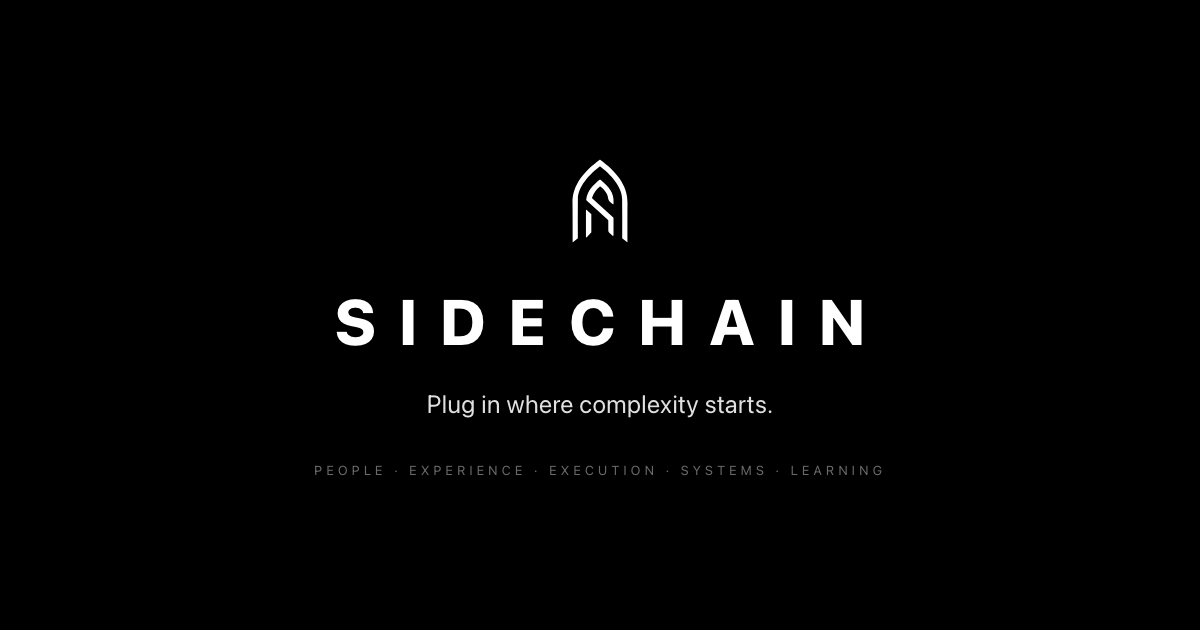
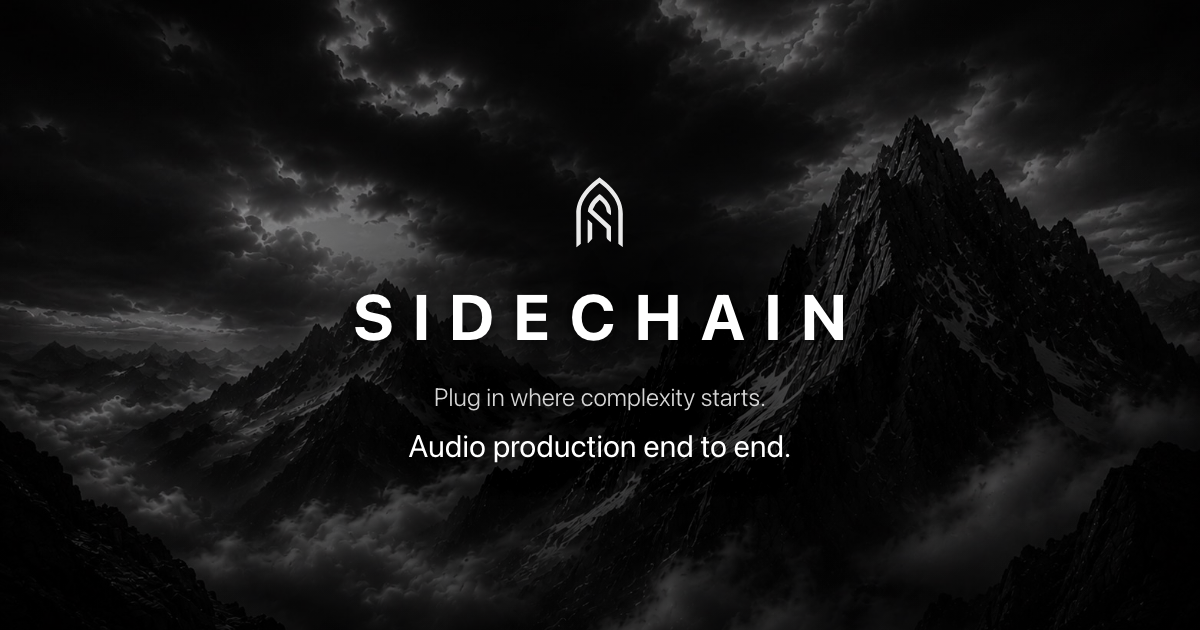
Lead the opening with the brand, and bring back the tagline
The wordmark now carries the opening and the message sits under it, with
'Plug in where complexity starts.' returned to the position it held on the
live site. The message keeps its full size at the close, where it stands on
its own.

Knowledge uses Sidechain's own line rather than the one I wrote, and the
social card is rebuilt from the new opening instead of the old artwork.

Claude-Session: https://claude.ai/code/session_01MtiF7TgJdrS4r8Sq25ne44

diff --git a/style.css b/style.css
@@ -240,22 +240,44 @@ a { color: inherit; text-decoration: none; }
 
 .mark {
   display: block;
-  margin: 0 auto 22px;
-  width: 76px;
+  margin: 0 auto clamp(20px, 3.4vh, 32px);
+  width: clamp(72px, 8vw, 104px);
   height: auto;
   filter: invert(1);
   opacity: .92;
 }
 
-/* The wordmark identifies. The statement carries the message, so the
-   wordmark is deliberately the smaller of the two. */
+/* The opening leads with identity: mark, then wordmark, then the tagline,
+   then what the company actually does. The message is not the largest thing
+   here — it gets its full size at the close, where it stands alone. */
 .wordmark {
-  font-size: clamp(11px, 1.5vw, 14px);
-  font-weight: 500;
-  letter-spacing: 0.36em;
-  text-indent: 0.36em;
-  color: rgba(255,255,255,.72);
-  margin-bottom: clamp(40px, 8vh, 76px);
+  font-size: clamp(26px, 5.4vw, 64px);
+  font-weight: 700;
+  letter-spacing: 0.30em;
+  text-indent: 0.30em;          /* balances the trailing letter-space */
+  line-height: 1;
+  color: var(--fg);
+  margin-bottom: clamp(26px, 4.5vh, 42px);
+  text-shadow: 0 0 60px rgba(0,0,0,.85), 0 2px 14px rgba(0,0,0,.65);
+}
+
+.tagline {
+  text-wrap: balance;
+  font-size: clamp(16px, 2vw, 24px);
+  font-weight: 300;
+  line-height: 1.35;
+  color: var(--muted);
+  text-shadow: 0 0 30px rgba(0,0,0,.9), 0 1px 8px rgba(0,0,0,.8);
+}
+
+.heroLine {
+  text-wrap: balance;
+  font-size: clamp(19px, 2.5vw, 31px);
+  font-weight: 400;
+  line-height: 1.25;
+  letter-spacing: -0.008em;
+  margin-top: clamp(14px, 2.4vh, 22px);
+  text-shadow: 0 0 40px rgba(0,0,0,.85), 0 2px 12px rgba(0,0,0,.65);
 }
 
 .statement {
@@ -402,7 +424,9 @@ a { color: inherit; text-decoration: none; }
 
   /* Sized so the forced line breaks in the copy still fit a 390px screen:
      the longest line is "What the production needs." */
-  .wordmark  { letter-spacing: 0.28em; text-indent: 0.28em; }
+  .wordmark  { font-size: clamp(24px, 8.6vw, 40px); letter-spacing: 0.20em; text-indent: 0.20em; }
+  .tagline   { font-size: 17px; }
+  .heroLine  { font-size: 17px; }
   .statement { font-size: clamp(28px, 8.4vw, 52px); }
   .chHead    { font-size: clamp(22px, 6vw, 42px); }
   .chNote    { font-size: 15px; }

diff --git a/index.html b/index.html
@@ -104,13 +104,12 @@
       <!-- ── Opening ────────────────────────────────────────────────── -->
       <section class="ch ch-hero" data-chapter="00">
         <div class="chInner chInner-center">
-          <img class="mark" src="logo.svg" width="76" height="76" alt="" />
+          <img class="mark" src="logo.svg" width="104" height="104" alt="" />
           <p class="wordmark">SIDECHAIN</p>
 
-          <h1 class="statement">
-            Audio production<br />
-            end to end.
-          </h1>
+          <p class="tagline">Plug in where complexity starts.</p>
+
+          <h1 class="heroLine">Audio production end to end.</h1>
 
           <p class="elements">People. Knowledge. Gear. Technology.</p>
         </div>
@@ -167,10 +166,7 @@
             Knowledge passed on.
           </h2>
 
-          <p class="chNote">
-            Learning happens inside real, paid productions, next to someone
-            carrying the responsibility.
-          </p>
+          <p class="chNote">Learning happens where responsibility is real.</p>
         </div>
       </section>
 
